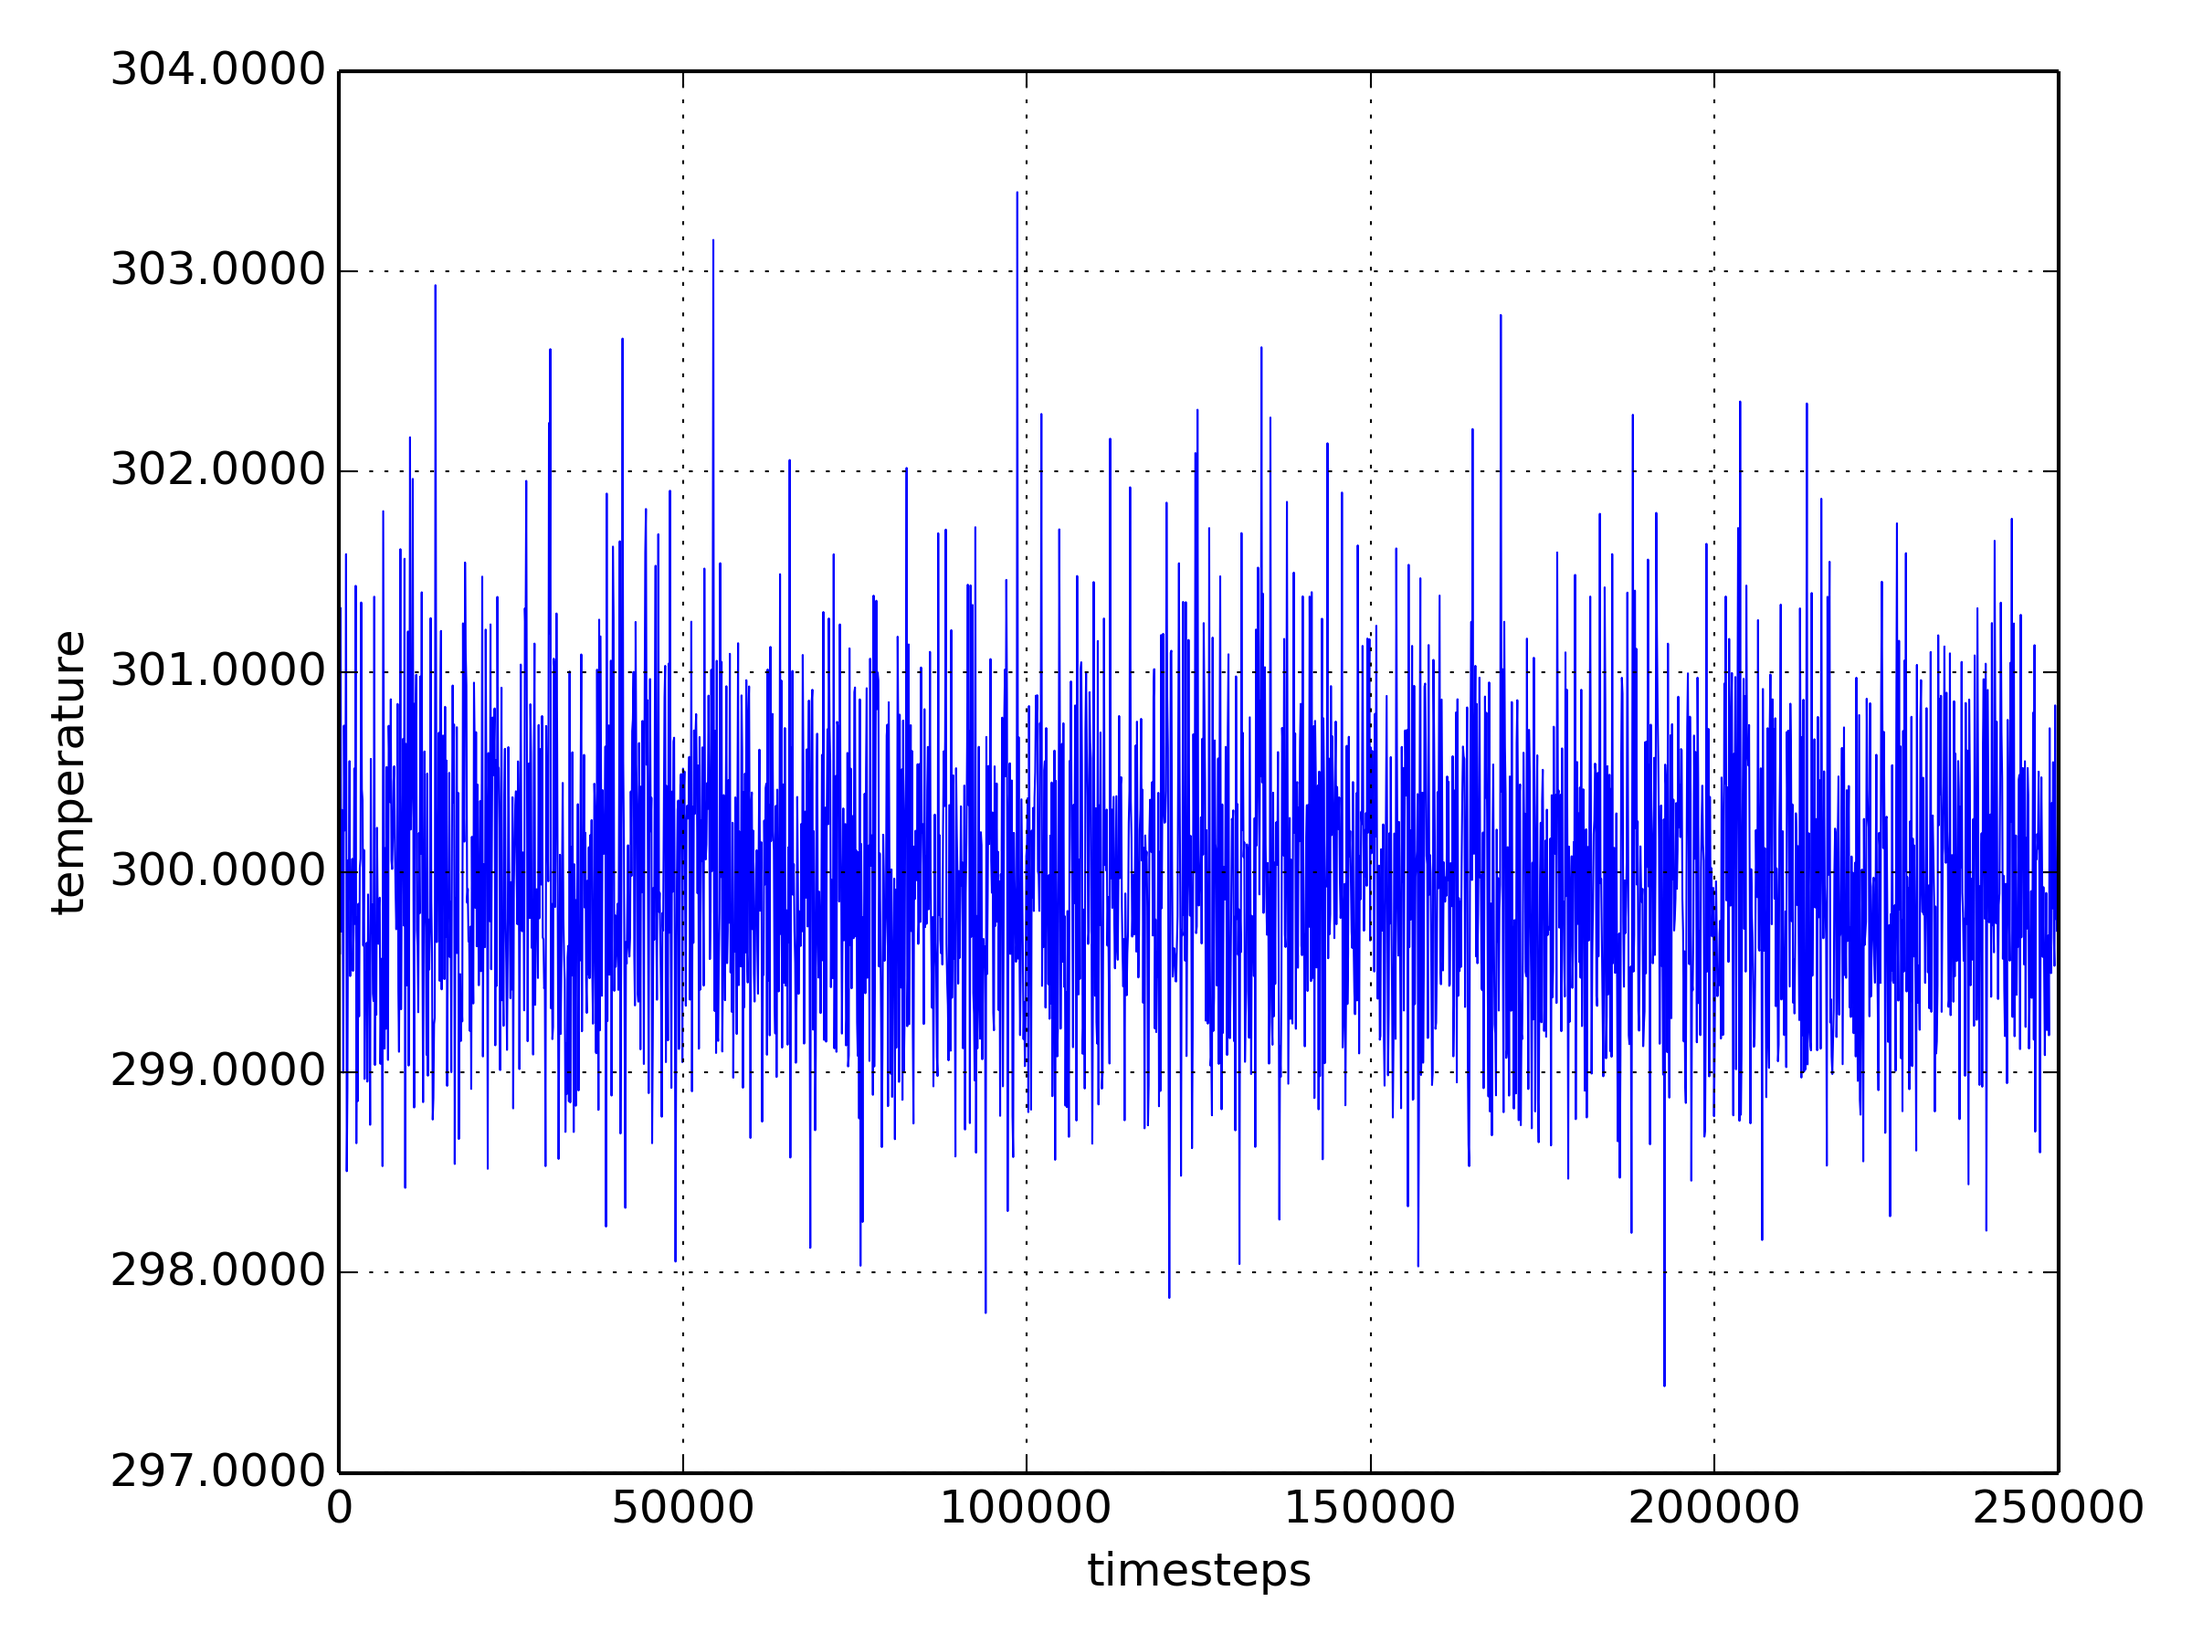
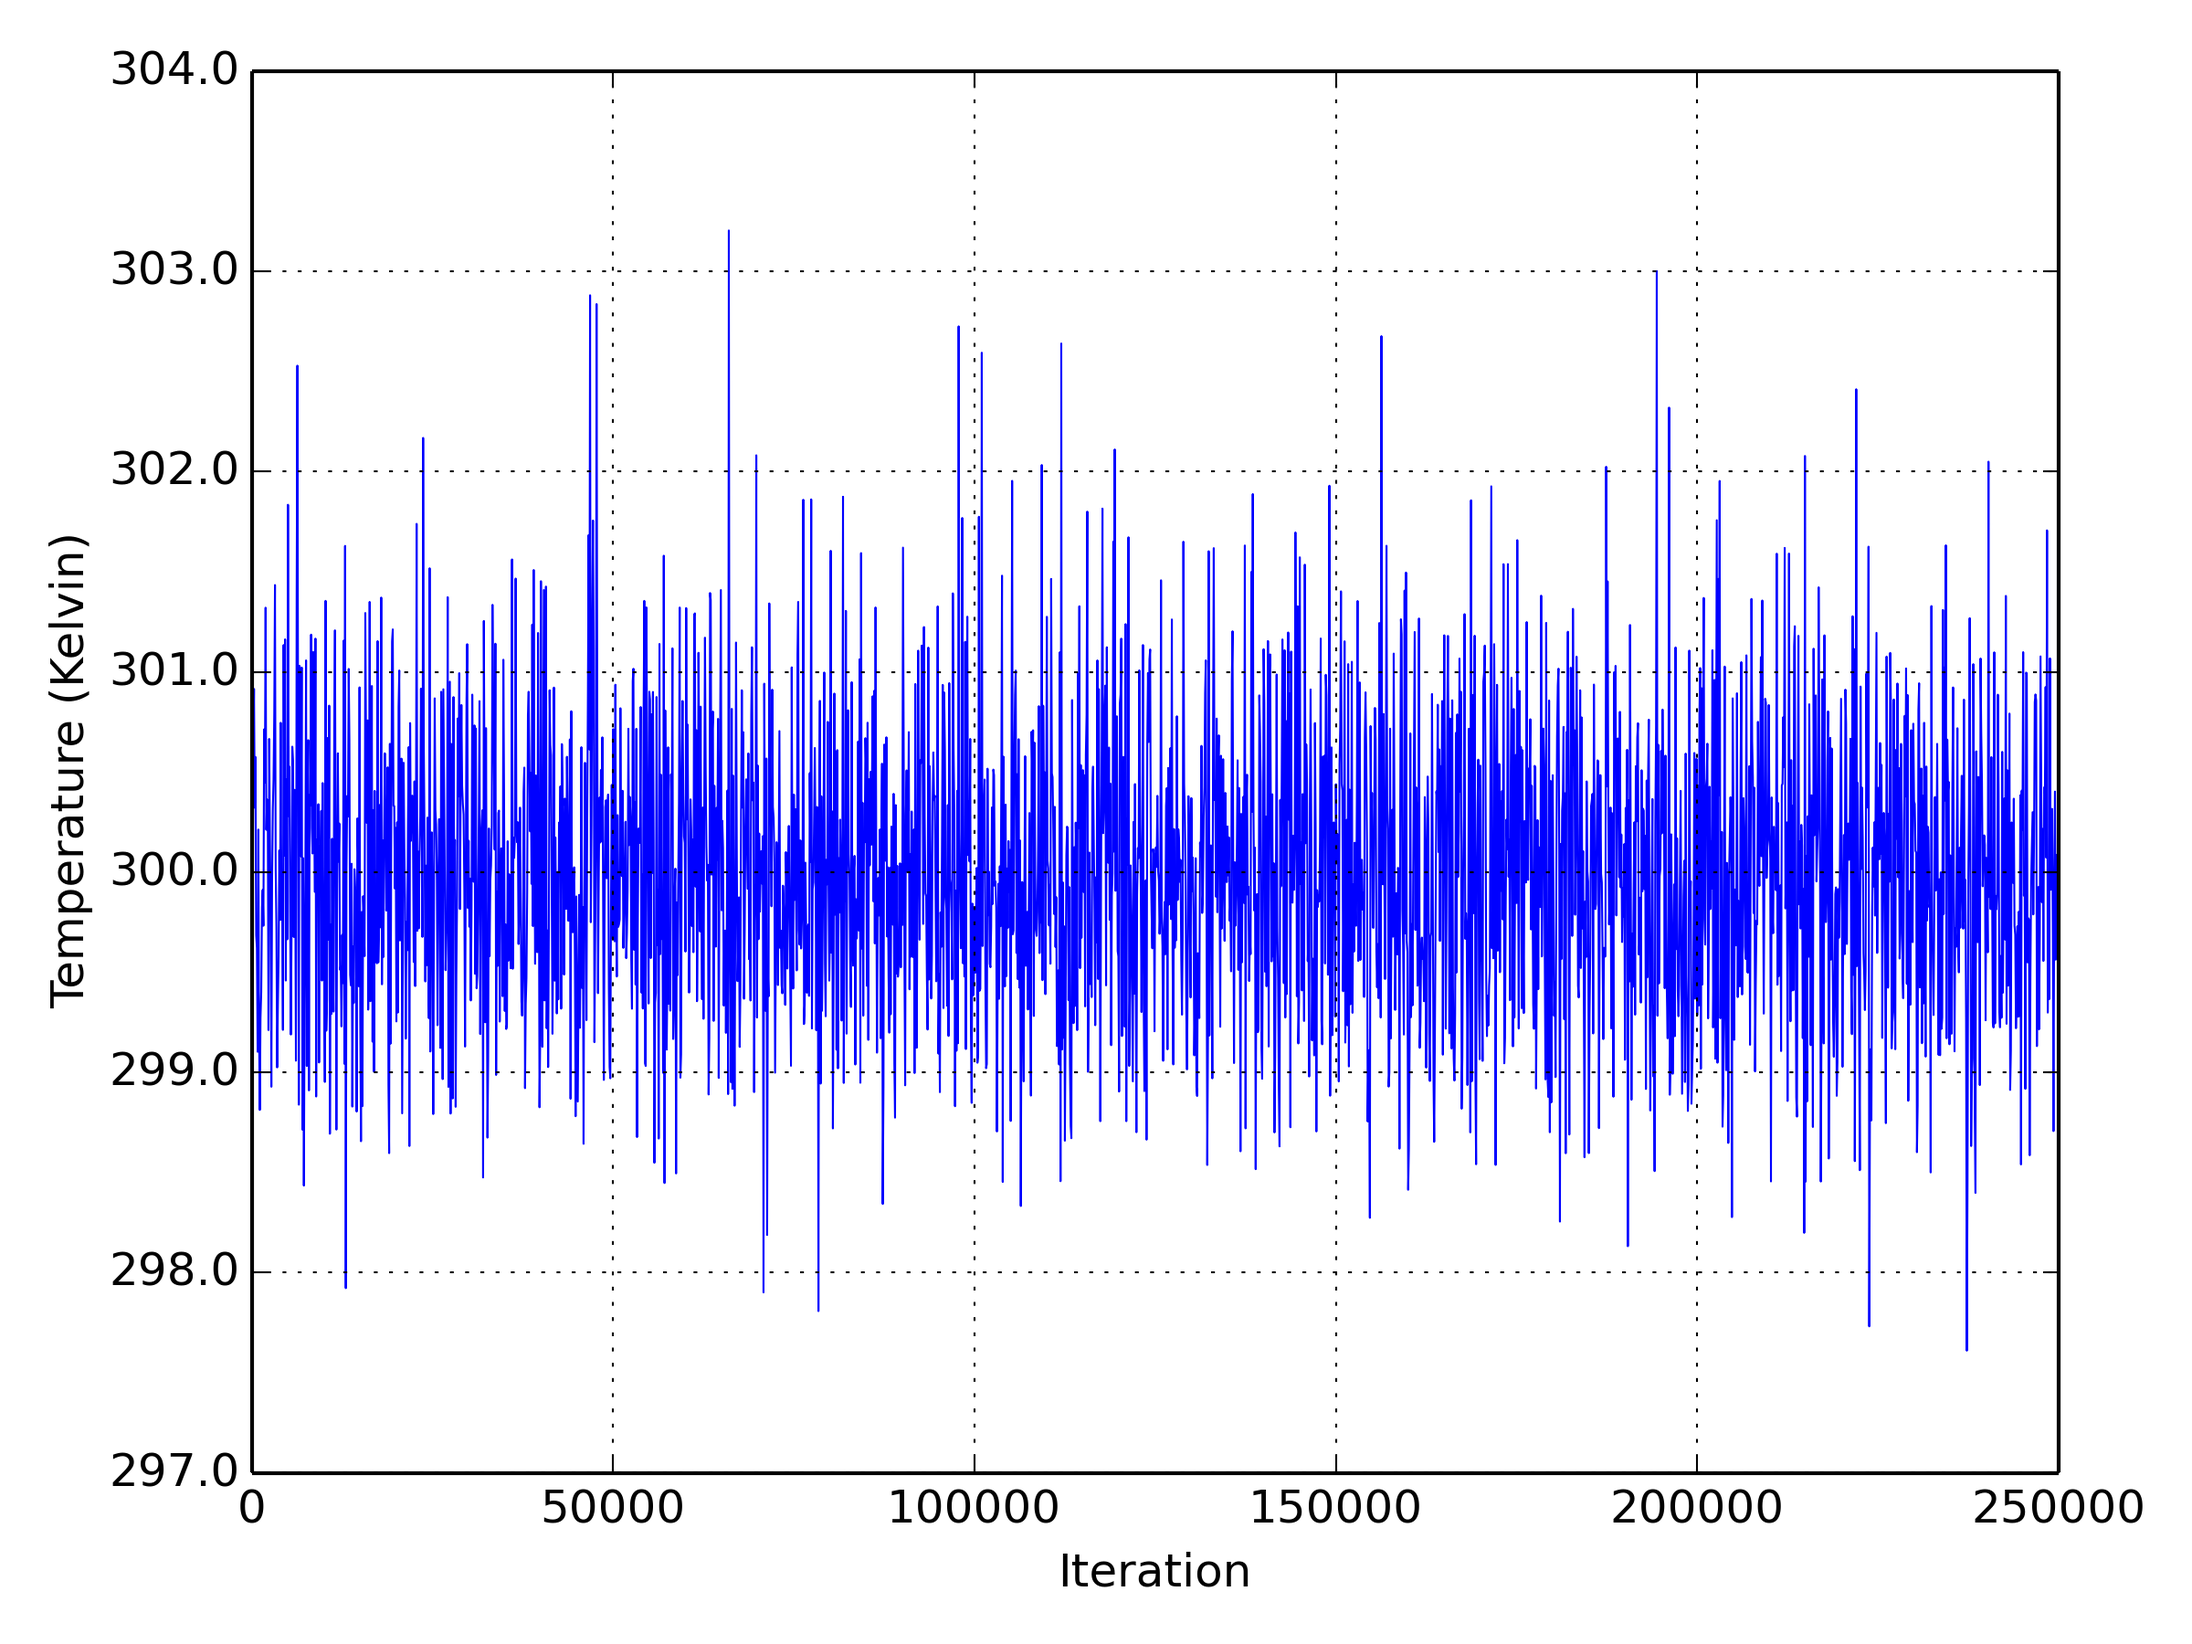
Update plotting script

diff --git a/scripts/plot-outputs.py b/scripts/plot-outputs.py
@@ -1,27 +1,35 @@
 import argparse
+
 import matplotlib.pyplot as plt
 from matplotlib.ticker import FormatStrFormatter
 import numpy as np
 
+LABELS = {
+    "potential_energy": "Potential Energy (kcal/mol)",
+    "kinetic_energy": "Kinetic Energy (kcal/mol)",
+    "total_energy": "Total Energy (kcal/mol)",
+    "temperature": "Temperature (Kelvin)"
+}
 
-def generate_plots(filepath, output_format, output_interval, properties):
-    if output_format == "raw":
-        _generate_plots_raw(filepath, output_interval, properties)
-    elif output_format == "hdf5":
+def generate_plots(args, fmt, properties):
+    if fmt == "raw":
+        _generate_plots_raw(args, properties)
+    elif fmt == "hdf5":
         raise NotImplementedError("HDF5 format is not yet implemented")
     else:
-        raise ValueError("unsupported output format: {}".format(output_format))
+        raise ValueError("unsupported format: {}".format(fmt))
 
 
-def _generate_plots_raw(filepath, output_interval, properties):
-    # validate output interval
-    if output_interval is None:
-        raise ValueError("output interval is required to parse raw format")
+def _generate_plots_raw(args, properties):
+    # validate output frequency
+    freq = args.output_frequency
+    if freq is None:
+        raise ValueError("output frequency is required to parse 'raw' formatted data")
     else:
-        output_interval = int(output_interval)
+        freq = int(freq)
 
     # read raw text file
-    with open(filepath, "r") as f:
+    with open(args.src, "r") as f:
         lines = [line.strip() for line in f.readlines()]
 
     # parse desired properties
@@ -33,50 +41,53 @@ def _generate_plots_raw(filepath, output_interval, properties):
         if key in data:
             data[key].append(float(value))
 
-    # correct timestep for output interval
-    corrected_data = {k: [] for k in data}
+    # format data for plotting
+    formatted_data = {k: [] for k in data}
     for key in data:
-        corrected_values = {"x": [], "y": []}
+        formatted_values = {"x": [], "y": []}
         for i, value in enumerate(data[key]):
-            corrected_values["x"].append(i * output_interval)
-            corrected_values["y"].append(value)
-        corrected_data[key] = corrected_values
-    
-    # actually generate plots
-    _generate_plots_inner(corrected_data)
+            formatted_values["x"].append(i * freq)
+            formatted_values["y"].append(value)
+        formatted_data[key] = formatted_values
+
+    # generate plots
+    _generate_plots_inner(args, formatted_data)
 
 
-def _generate_plots_hdf5(filepath, properties):
+def _generate_plots_hdf5(args, properties):
     pass
 
 
-def _generate_plots_inner(data):
-    for key in data:
-        fig, ax = plt.subplots(tight_layout=True)
-        x = data[key]["x"]
-        y = data[key]["y"]
-        ax.plot(x, y, linewidth=0.5)
-        ax.set_xlabel("timesteps")
-        ax.set_ylabel(key)
-        ax.grid(True)
-        ax.yaxis.set_major_formatter(FormatStrFormatter("%.4f"))
-        fig.savefig("{}.png".format(key), dpi=300)
+def _generate_plots_inner(args, data):
+    fig, ax = plt.subplots(nrows=len(data), tight_layout=True, sharex=True)
+    for i, key in enumerate(data):
+        if len(data) > 1:
+            _ax = ax[i]
+        else:
+            _ax = ax
+        _ax.plot(data[key]["x"], data[key]["y"], linewidth=0.5)
+        _ax.set_ylabel(LABELS[key])
+        _ax.grid(True)
+        _ax.yaxis.set_major_formatter(FormatStrFormatter("%.1f"))
+    plt.xlabel("Iteration")
+    plt.savefig(args.dst, dpi=300)
 
 
 if __name__ == "__main__":
     parser = argparse.ArgumentParser(description="Plots the results of a Velvet simulation.")
-    parser.add_argument("filepath", help="Path to the results file.")
-    parser.add_argument("output_interval", default=None, help="Number of timesteps between outputs. Only required for raw output.")
+    parser.add_argument("src", help="Path to the source file.")
+    parser.add_argument("dst", help="Path to the destination file.")
+    parser.add_argument("output_frequency", default=None, help="Number of timesteps between outputs. Only required for raw output.")
     parser.add_argument("-pe", action="store_true", help="Plot potential energy.")
     parser.add_argument("-ke", action="store_true", help="Plot kinetic energy.")
     parser.add_argument("-etotal", action="store_true", help="Plot total energy.")
     parser.add_argument("-temp", action="store_true", help="Plot instantaneous temperature.")
     args = parser.parse_args()
 
-    # determine output format from file extension
-    output_format = "raw"
-    if args.filepath.endswith("h5") or args.filepath.endswith("hdf5"):
-        output_format = "hdf5"
+    # determine source format from file extension
+    fmt = "raw"
+    if args.src.endswith("h5") or args.src.endswith("hdf5"):
+        fmt = "hdf5"
     
     # determine desired plots from flags
     properties = []
@@ -89,4 +100,4 @@ if __name__ == "__main__":
     if args.temp:
         properties.append("temperature")
 
-    generate_plots(args.filepath, output_format, args.output_interval, properties)    
+    generate_plots(args, fmt, properties)    

diff --git a/examples/README.md b/examples/README.md
@@ -1,19 +1,19 @@
 # Examples
 
-[__argon.rs__](./argon.rs) - Molecular dynamics simulation of argon gas in the NVE ensemble. This example uses a Lennard-Jones style pair potential to simulate the pairwise interactions between pairs of argon atoms. The Velocity Verlet algorithm is employed to integrate the equations of motion in the system. The total energy of the system over the course of the simulation is plotted in the figure below. Generated with [plot-outputs.py](../scripts/plot-outputs.py) using the following commands:
+[__argon.rs__](./argon.rs) - Molecular dynamics simulation of argon gas in the NVE ensemble. This example uses a Lennard-Jones style pair potential to simulate the pairwise interactions between pairs of argon atoms. The Velocity Verlet algorithm is employed to integrate the equations of motion in the system. The total energy of the system over the course of the simulation is plotted in the figure below using the following commands:
 
 ```bash
 $ cargo run --release --example argon
-$ python scripts/plot-outputs.py argon.txt 100 -etotal
+$ python scripts/plot-outputs.py argon.txt argon.png 100 -etotal
 ```
 
 <p align="center"><img src="../assets/argon.png"></p>
 
-[__binary-gas.rs__](./binary-gas.rs) - Molecular dynamics simulation of an argon/xenon gaseous mixture in the NVT ensemble. This example uses a Lennard-Jones style pair potential to simulate the pairwise interactions between each pair of chemical species. The Velocity Verlet algorithm is employed to integrate the equations of motion in the system. A Nose-Hoover thermostat controls the temperature of the system. The temperature of the system over the course of the simulation is plotted in the figure below. Generated with [plot-outputs.py](../scripts/plot-outputs.py) using the following commands:
+[__binary-gas.rs__](./binary-gas.rs) - Molecular dynamics simulation of an argon/xenon gaseous mixture in the NVT ensemble. This example uses a Lennard-Jones style pair potential to simulate the pairwise interactions between each pair of chemical species. The Velocity Verlet algorithm is employed to integrate the equations of motion in the system. A Nose-Hoover thermostat controls the temperature of the system. The temperature of the system over the course of the simulation is plotted in the figure below using the following commands:
 
 ```bash
 $ cargo run --release --example binary-gas
-$ python scripts/plot-outputs.py binary-gas.txt 100 -temp
+$ python scripts/plot-outputs.py binary-gas.txt binary-gas.png 100 -temp
 ```
 
 <p align="center"><img src="../assets/binary-gas.png"></p>
